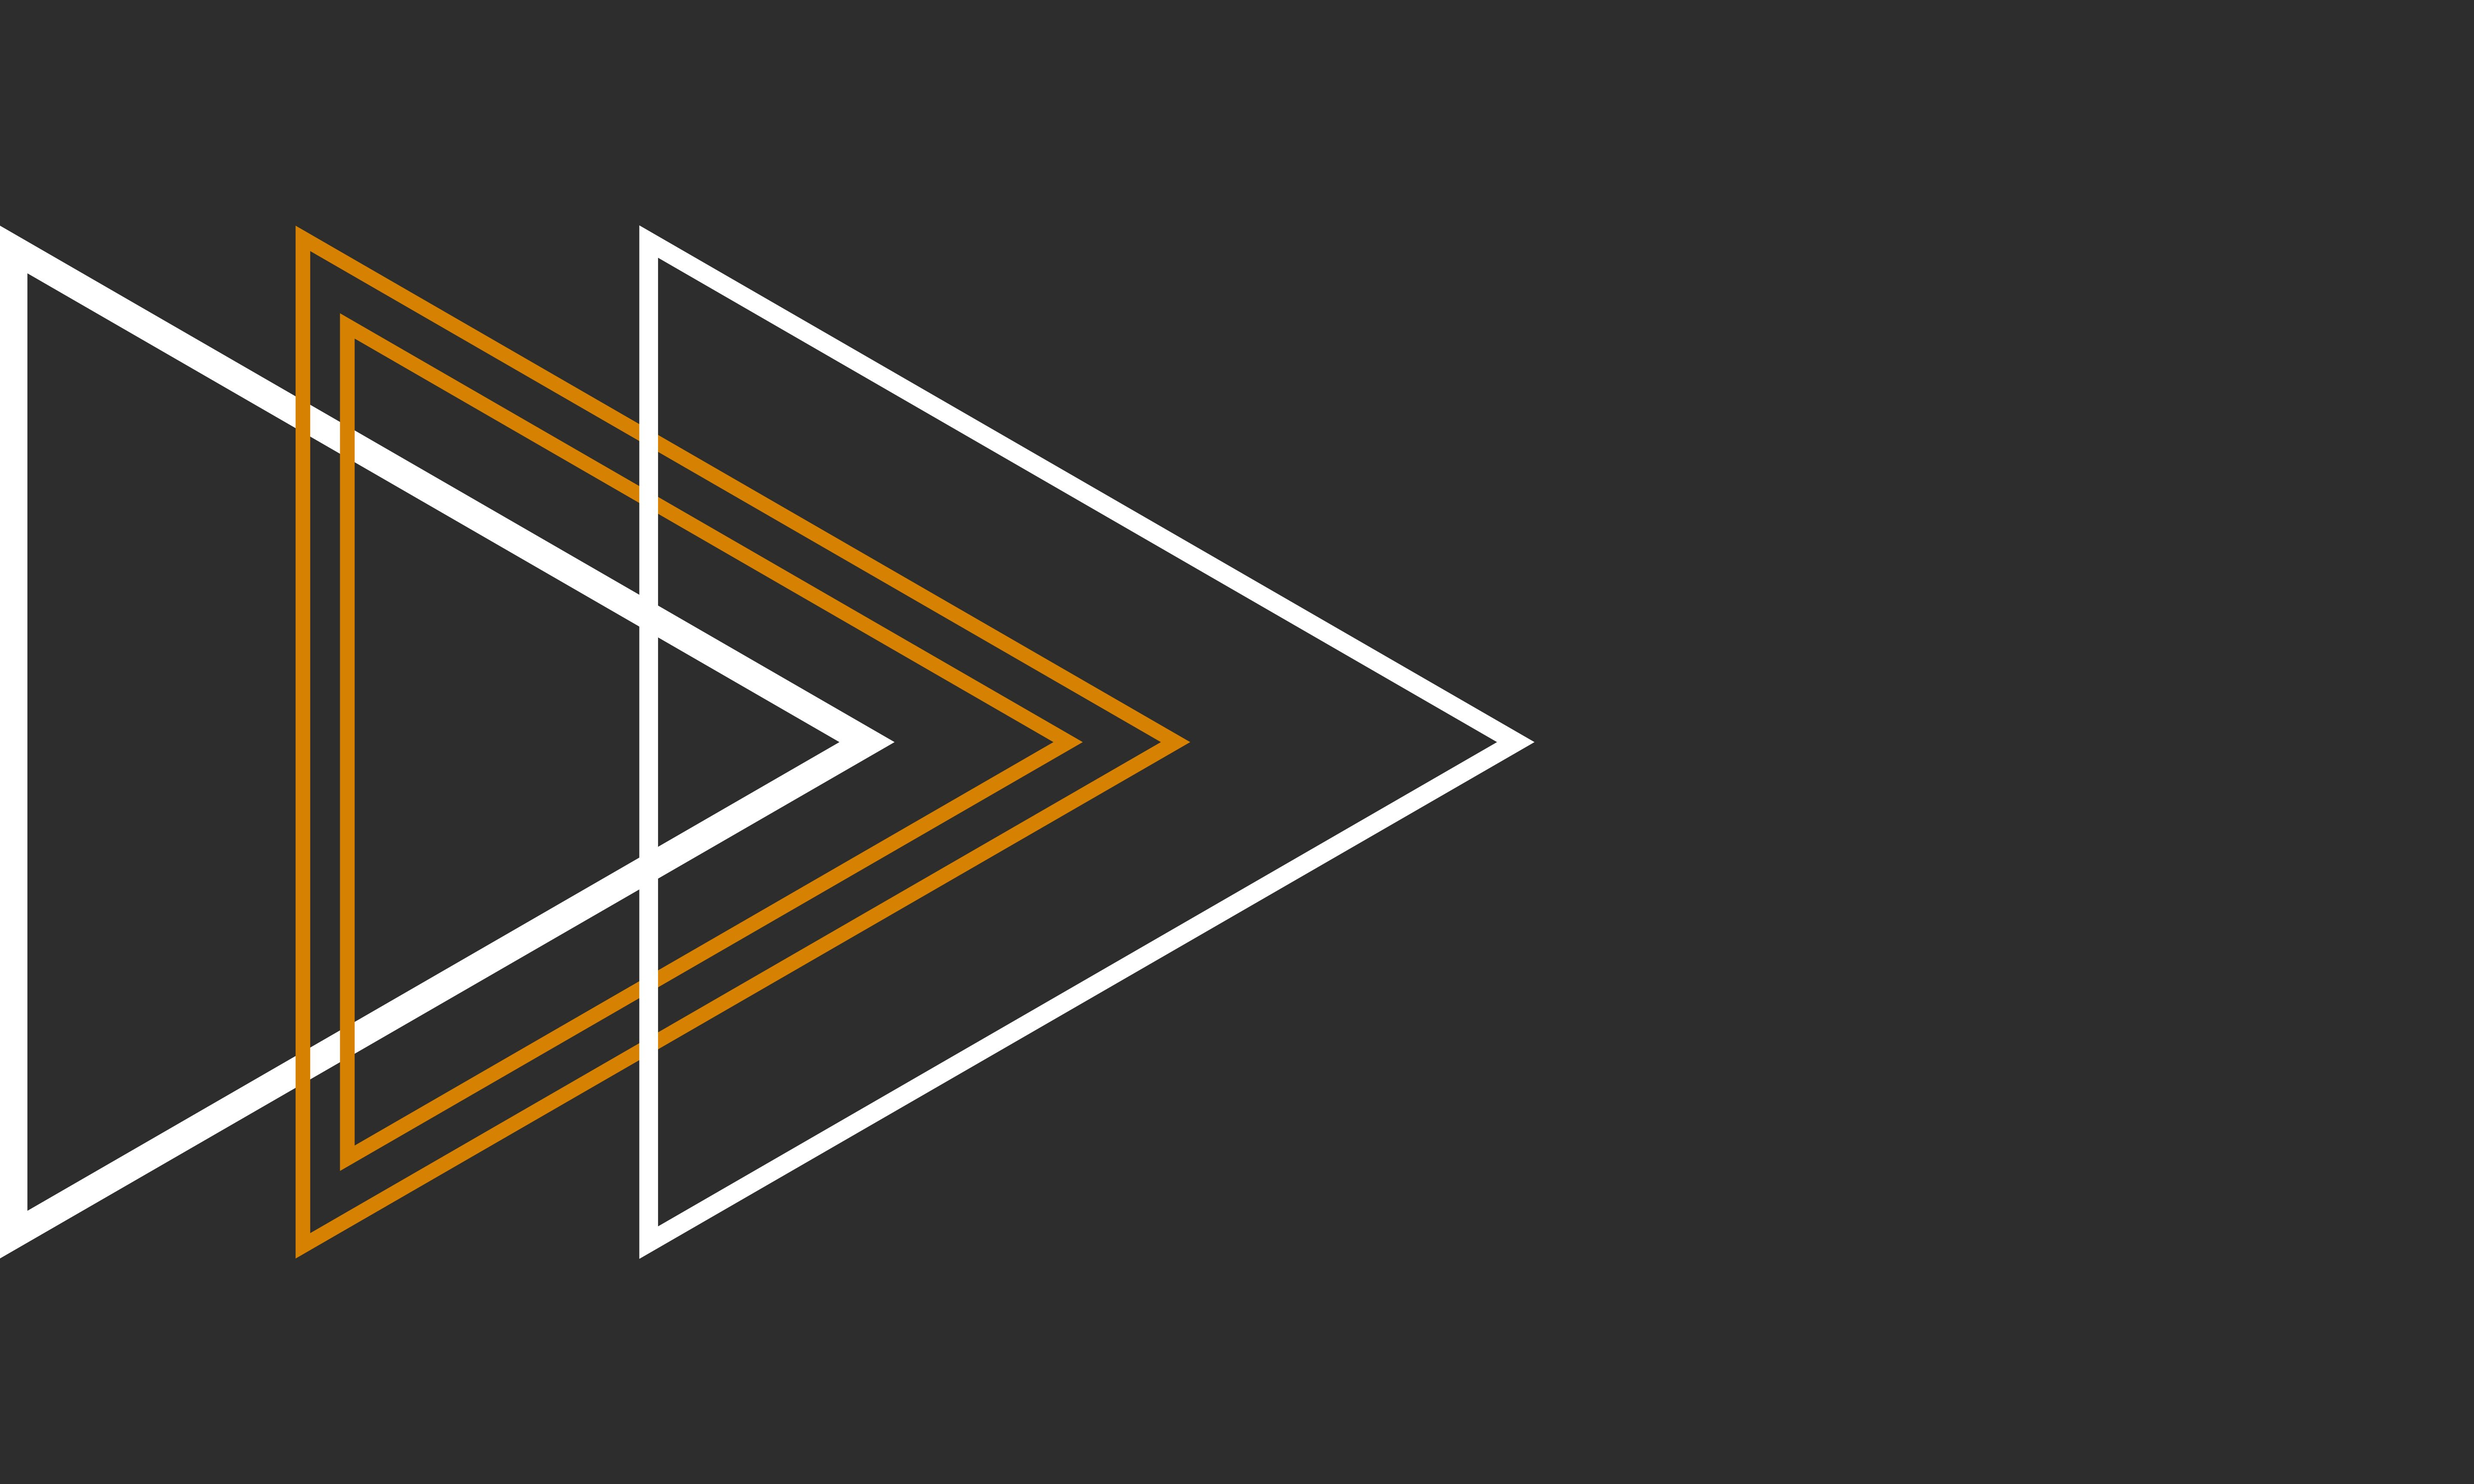
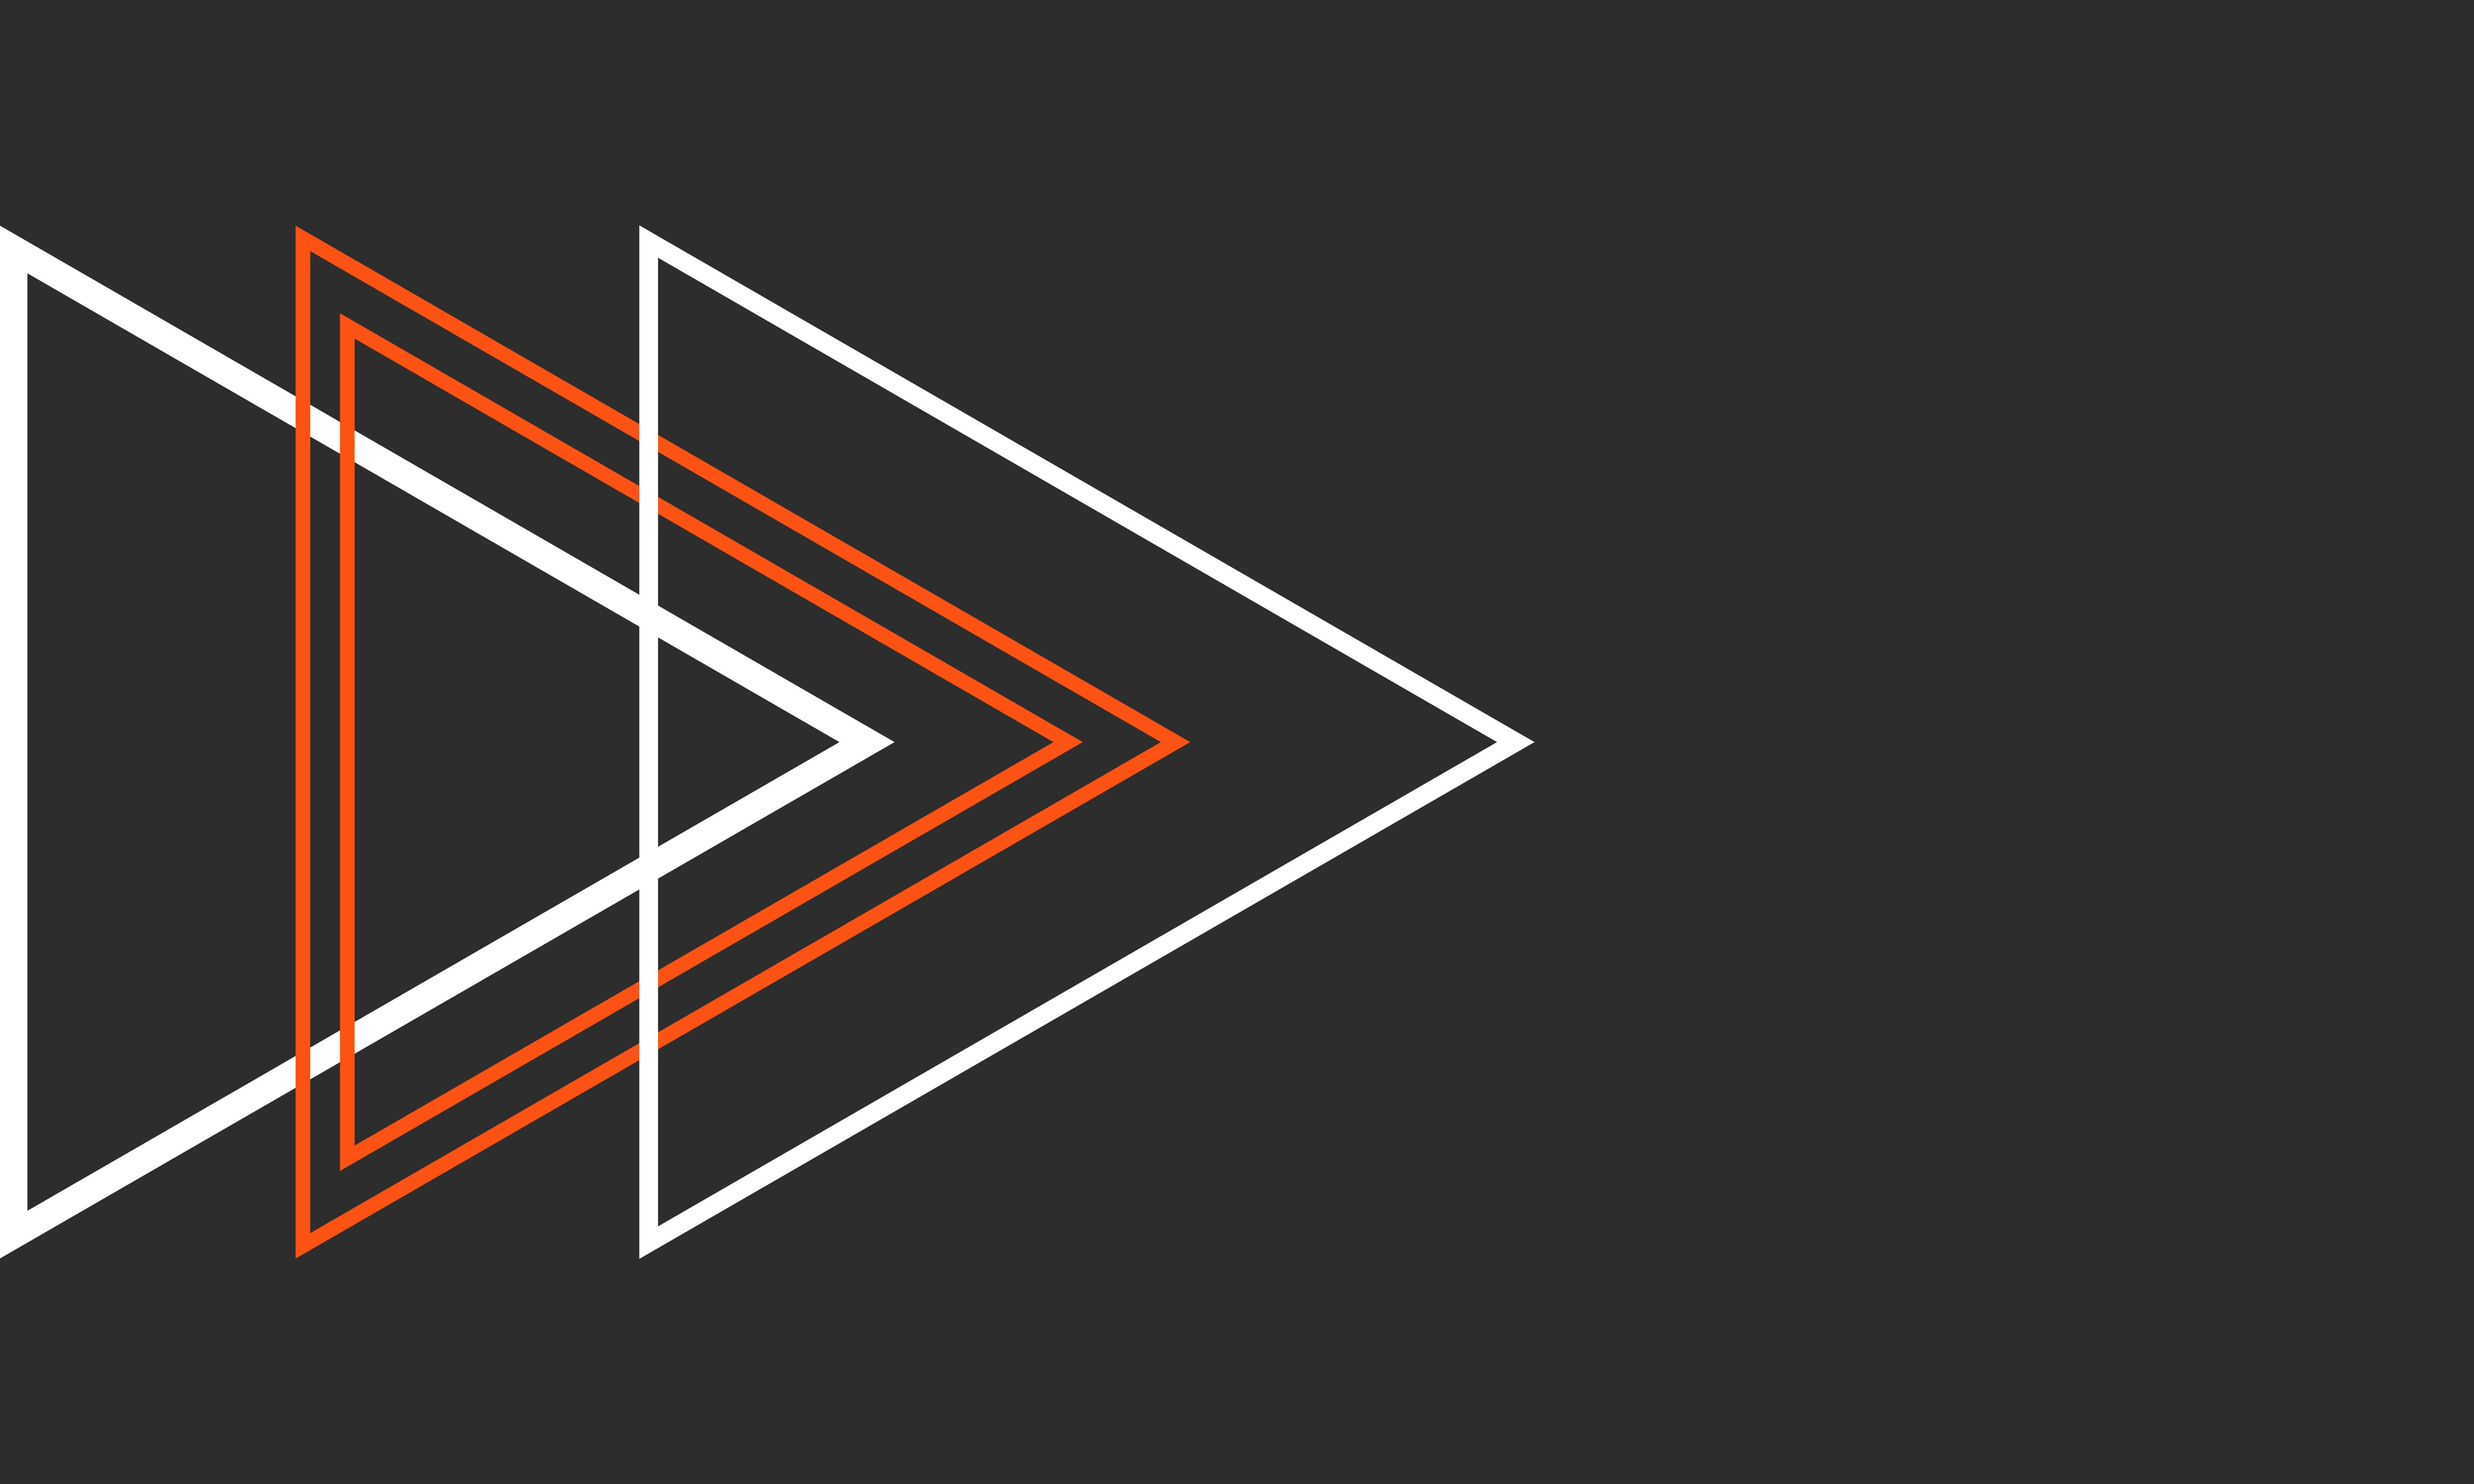
chore: changes orange color

Changed region(s): [[0.0938, 0.1562, 0.4688, 0.8438]]

diff --git a/assets/css/theme.css b/assets/css/theme.css
@@ -25,7 +25,7 @@
     --second-color-cyan: #2ae9e6;
     --main-color-green: #20b042;
     --second-color-green: #4caf50;
-    --main-color-orange: #d68102;
+    --main-color-orange: #fc5214;
     --second-color-orange: #fca11a;
     --sidebar-width: 300px;
     --border-radius: 15px;
